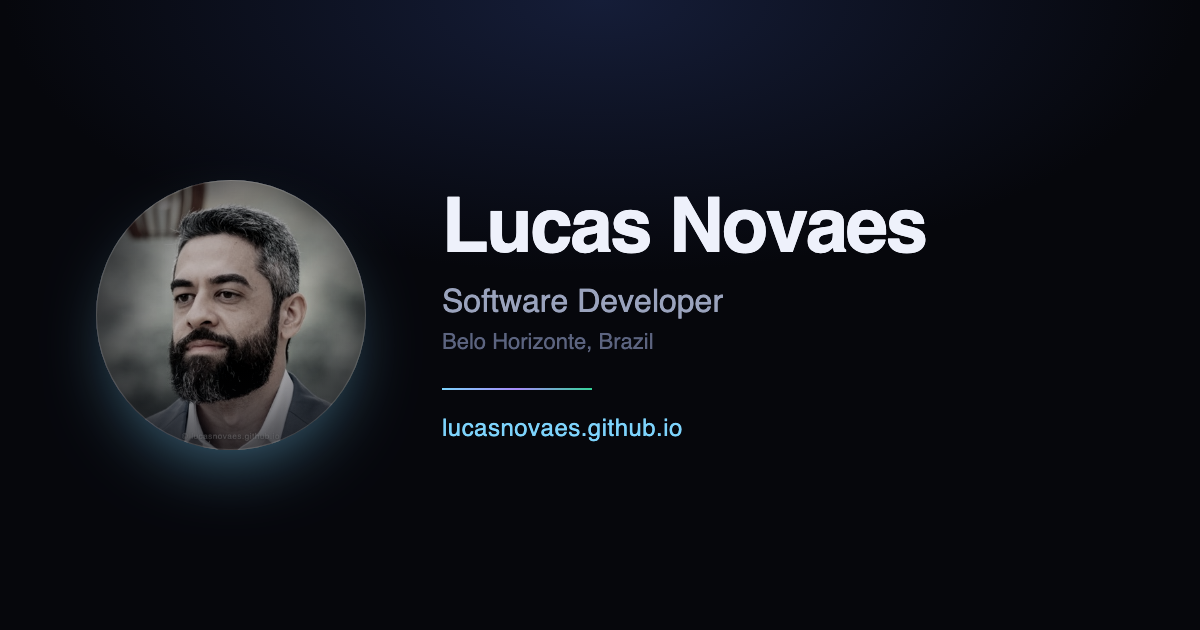
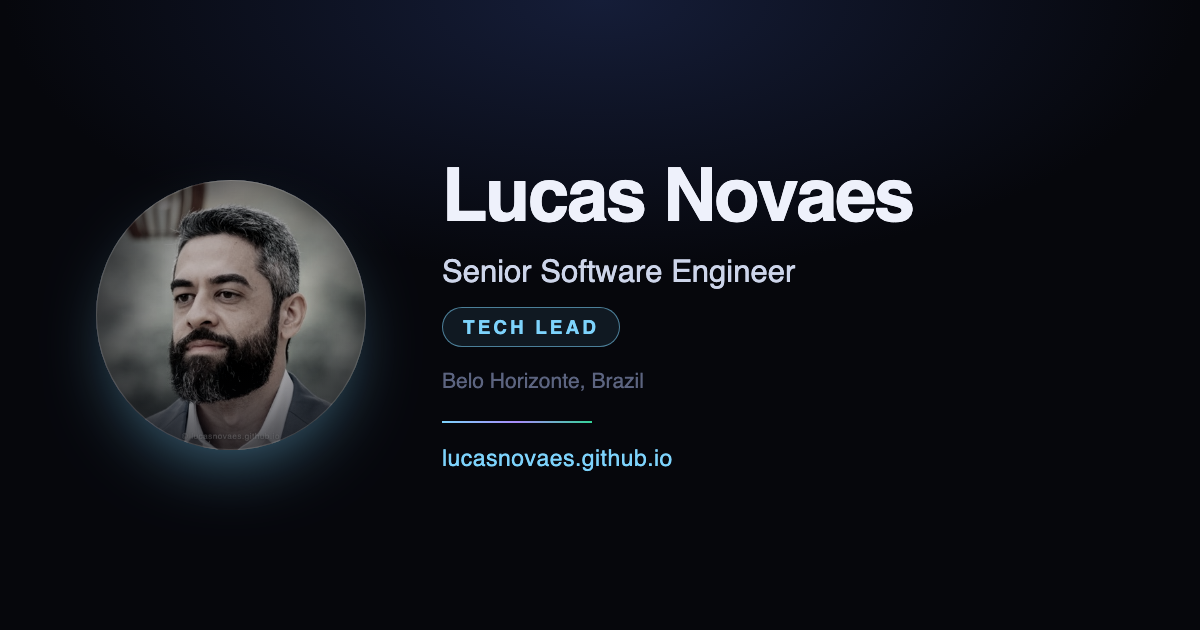
Highlight Senior Software Engineer and Tech Lead role
- Card: role line becomes Senior Software Engineer, with a
  gradient-bordered Tech Lead pill directly under it
- About: rewrite the heading and bio around technical leadership
- Update title, description and Open Graph metadata
- Regenerate the link-preview image with the new role

Changed region(s): [[0.37, 0.2714, 0.7708, 0.6333], [0.37, 0.6635, 0.5858, 0.754]]

diff --git a/index.html b/index.html
@@ -6,17 +6,18 @@
     <meta http-equiv="X-UA-Compatible" content="IE=edge">
     <meta name="viewport" content="width=device-width, initial-scale=1">
     <meta name="theme-color" content="#06070c">
-    <meta name="description" content="Lucas Novaes — Software Developer. Digital business card & professional profile.">
+    <meta name="description"
+        content="Lucas Novaes — Senior Software Engineer & Tech Lead. Digital business card & professional profile.">
     <meta name="author" content="Lucas Novaes">
 
     <meta property="og:type" content="website">
-    <meta property="og:title" content="Lucas Novaes — Software Developer">
+    <meta property="og:title" content="Lucas Novaes — Senior Software Engineer & Tech Lead">
     <meta property="og:description" content="Digital business card & professional profile.">
     <meta property="og:url" content="https://lucasnovaes.github.io/">
     <meta property="og:image" content="https://lucasnovaes.github.io/img/og-image.png">
     <meta name="twitter:card" content="summary_large_image">
 
-    <title>Lucas Novaes — Software Developer</title>
+    <title>Lucas Novaes — Senior Software Engineer & Tech Lead</title>
 
     <link rel="icon" href="favicon.ico" sizes="any">
     <link rel="icon" type="image/svg+xml" href="favicon.svg">
@@ -54,7 +55,8 @@
                     <div class="card__glow"></div>
                     <div class="card__mark">LN</div>
                     <h1 class="card__name">Lucas Novaes</h1>
-                    <p class="card__role">Software Developer</p>
+                    <p class="card__role">Senior Software Engineer</p>
+                    <p class="card__badge"><span>Tech Lead</span></p>
                     <p class="card__location">
                         <svg viewBox="0 0 24 24" width="14" height="14" fill="none" stroke="currentColor"
                             stroke-width="2">
@@ -119,12 +121,13 @@
             </div>
             <div class="about__text reveal">
                 <p class="section-kicker">About</p>
-                <h2>Turning ideas into optimized software.</h2>
+                <h2>Leading teams. Shipping software that lasts.</h2>
                 <p>
-                    Software developer since 2014, with a BSc in Information Systems from PUC Minas (2015).
-                    I like working across the stack — from backend logic and databases to clean,
-                    responsive interfaces — and I care about writing code that is simple, efficient
-                    and built to last.
+                    Senior Software Engineer and Tech Lead, building software since 2014, with a BSc in
+                    Information Systems from PUC Minas (2015). I work across the stack — from backend
+                    logic and databases to clean, responsive interfaces — and I lead technical direction:
+                    setting architecture, reviewing code and helping the team ship work that is simple,
+                    efficient and built to last.
                 </p>
             </div>
         </section>
@@ -149,6 +152,7 @@
                         <li>JavaScript</li>
                         <li>Kotlin</li>
                         <li>Swift</li>
+                        <li>SQL</li>
                     </ul>
                 </div>
 

diff --git a/css/style.css b/css/style.css
@@ -247,6 +247,39 @@ h1, h2, h3 {
     transform: translateZ(24px);
 }
 
+/* Gradient-bordered pill — the one accent that outranks the role line. */
+.card__badge {
+    margin: 0.75rem 0 0;
+    transform: translateZ(28px);
+}
+
+.card__badge span {
+    display: inline-block;
+    position: relative;
+    padding: 0.3rem 0.85rem;
+    border-radius: 999px;
+    font-family: var(--font-display);
+    font-size: 0.7rem;
+    font-weight: 600;
+    text-transform: uppercase;
+    letter-spacing: 0.16em;
+    color: var(--accent);
+    background: rgba(125, 211, 252, 0.08);
+}
+
+.card__badge span::before {
+    content: "";
+    position: absolute;
+    inset: 0;
+    border-radius: inherit;
+    padding: 1px;
+    background: linear-gradient(120deg, var(--accent), var(--accent-2), var(--accent-3));
+    -webkit-mask: linear-gradient(#000 0 0) content-box, linear-gradient(#000 0 0);
+    -webkit-mask-composite: xor;
+    mask-composite: exclude;
+    pointer-events: none;
+}
+
 .card__location {
     display: flex;
     align-items: center;
